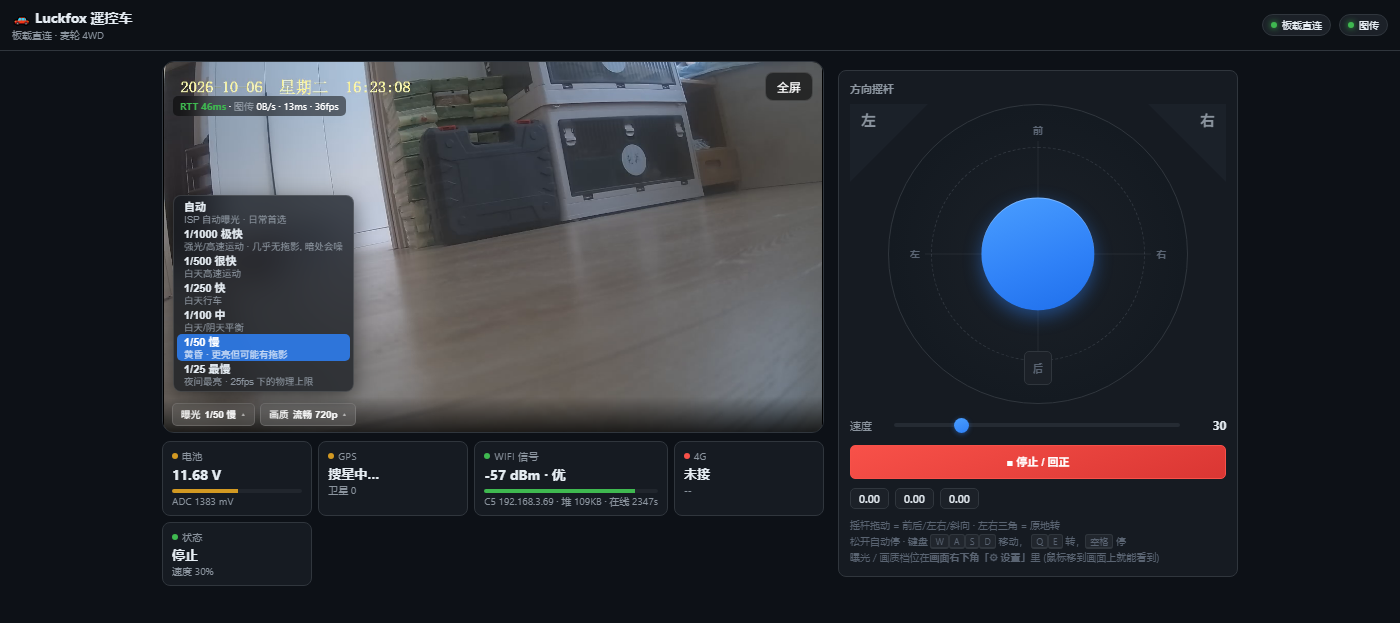
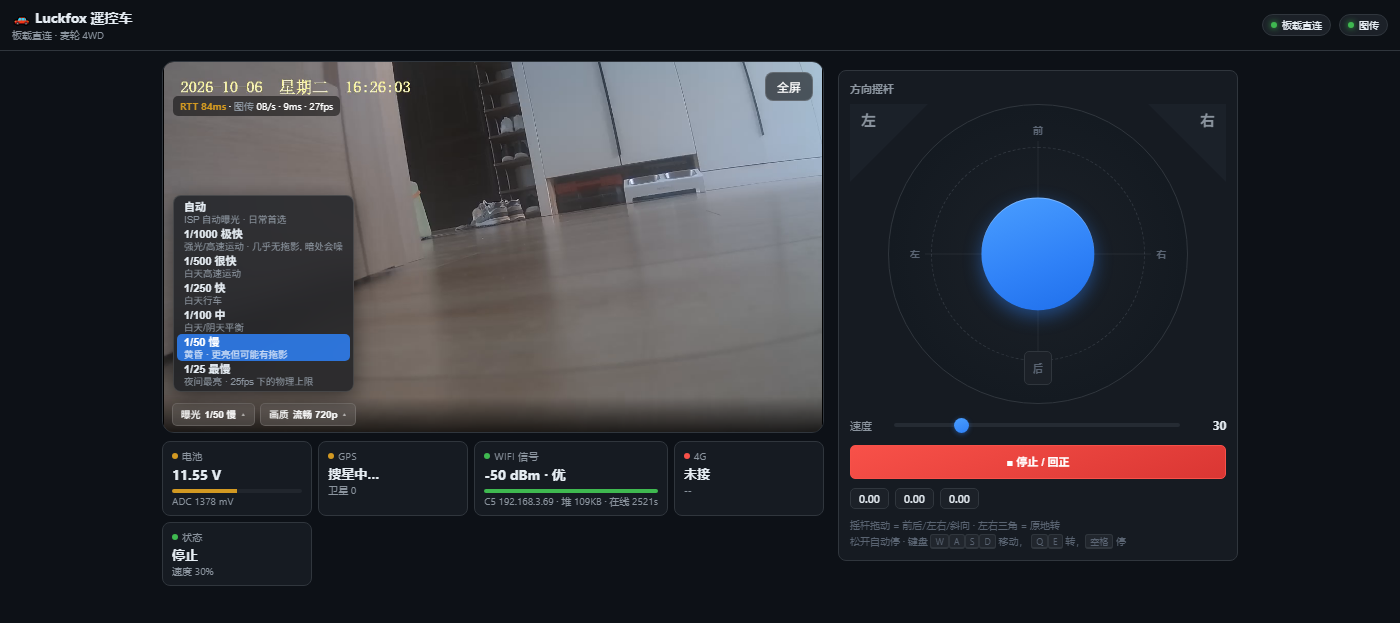
fix: HUD 常驻 + 修掉"按住时出现两个 RTT" + 删除无用的档位提示
问题 (用户报告)
1. 按住方向键时, 左上角 HUD 里会出现**两个 RTT**
2. HUD 应该**常驻**, 不要只在图传连上时才出现
3. 面板底部"曝光 / 画质档位在画面右下角「⚙ 设置」里"这行提示删掉

根因 (问题 1)
* updHud() 用 innerHTML 写**整块** HUD (其中含 RTT)
* hudRtt() 又用 insertBefore **插入**一个独立的 #hudRtt span 写 RTT
* 控制循环每 25ms 调一次 hudRtt (按住时高频触发) -> 两个 RTT 并存
* 修法: HUD 结构只由 updHud() 负责; hudRtt() **只改 textContent/color**,
  绝不增删节点

问题 2 的修法
* updHud(0,0,0,0) 提前到脚本加载时执行一次 (原来只在图传连上后跑)
* stopStats() 不再把 HUD display:none, 图传断了也保留 (RTT 段照常刷新)

顺带修掉的分隔符 bug
* RTT 还没拿到时, 原来会渲染成 "RTT 30ms图传" (缺分隔符);
  现在分隔符用独立的 .sep span, 空 RTT 时由 CSS #vhud.no-rtt 一起隐藏,
  hudRtt() 拿到首个 RTT 后摘掉 no-rtt

验证 (实测)
* 按住 W 2 秒, 每 200ms 采样: RTT 出现次数恒为 1 (修复前为 2) ✓
* 快速连点方向键: #hudRtt 节点数恒为 1 ✓
* 屏蔽图传端口 (8889/whep) 后加载页面: HUD 在各时间点均可见,
  文字 "RTT 38ms · 图传 0B/s · 0ms" -> 常驻 ✓
* 提示文字已无"曝光 / 画质档位" ✓
* 无 JS 异常

文档
* README 说明 HUD 常驻 + RTT 上色规则
* 更新界面截图

diff --git a/board/app/index.html b/board/app/index.html
@@ -93,6 +93,9 @@ main{max-width:1100px;margin:0 auto;padding:10px 12px 24px}
   background:rgba(0,0,0,.5);padding:3px 7px;border-radius:5px;
   backdrop-filter:blur(8px);display:none;font-variant-numeric:tabular-nums;
   z-index:5;white-space:nowrap}
+/* RTT 还没拿到时 (页面刚加载/idle), 隐藏那个空的 #hudRtt 和它后面的分隔符,
+   否则会出现 "RTT…图传" 粘在一起或孤零零的 " · "。 */
+#vhud.no-rtt #hudRtt,#vhud.no-rtt .sep{display:none}
 #vfull{position:absolute;right:10px;top:10px;background:rgba(0,0,0,.55);color:#fff;
   border:1px solid rgba(255,255,255,.15);border-radius:8px;padding:5px 11px;
   font-size:12px;cursor:pointer;backdrop-filter:blur(6px)}
@@ -432,8 +435,7 @@ kbd{background:#21262d;border:1px solid var(--line);border-bottom-width:2px;
       <div class="hint">
         摇杆拖动 = 前后/左右/斜向 · 左右三角 = 原地转<br>
         松开自动停 · 键盘 <kbd>W</kbd><kbd>A</kbd><kbd>S</kbd><kbd>D</kbd> 移动，
-        <kbd>Q</kbd><kbd>E</kbd> 转，<kbd>空格</kbd> 停<br>
-        曝光 / 画质档位在<b>画面右下角「⚙ 设置」</b>里 (鼠标移到画面上就能看到)
+        <kbd>Q</kbd><kbd>E</kbd> 转，<kbd>空格</kbd> 停
       </div>
     </div>
   </div>
@@ -637,6 +639,11 @@ function startStats(p){
   updHud(0, 0, 0, 0);
 }
 
+/* HUD 是**常驻**的: 页面一加载就显示, 不等图传连上。
+ * 原因: RTT 是判断控制链路好坏的唯一指标, 图传断了/还没连上时
+ * 更要能看到 RTT (那正是最需要排查的时候)。图传那部分显示 -- 即可。 */
+updHud(0, 0, 0, 0);
+
 /* 左上角 HUD: 显示**控制 RTT + 图传指标**
  *
  * 为什么把 RTT 放这里: RTT 是"手感"的唯一客观来源 —— 手指动到车响应之间的
@@ -653,34 +660,50 @@ function updHud(rate, jb, fps, lost){
   const rttColor = rtt === null ? '#8b949e'
                  : (rtt < 80 ? '#3fb950' : (rtt < 200 ? '#d29922' : '#f85149'));
   let html = '';
-  if(rtt !== null)
-    html += `<span style="color:${rttColor};font-weight:700">RTT ${rtt}ms</span> · `;
+  /* #hudRtt 这个 span 必须一直存在 (即使是空的): hudRtt() 只改它的
+     textContent/color, 靠它定位。
+     ⚠ 分隔符 " · " 写在 #hudRtt **外面**, 而不是拼在 innerHTML 里 ——
+     否则 RTT 还没拿到时(idle 那一瞬间)会渲染成 "RTT…图传" 粘在一起,
+     或者出现孤零零的 " · 图传"。用 CSS 控制: 空 span 不显示, 分隔符跟着走。 */
+  const rttTxt = rtt !== null ? `RTT ${rtt}ms` : '';
+  el.classList.toggle('no-rtt', rtt === null);
+  html += `<span id="hudRtt" style="color:${rttColor};font-weight:700">${rttTxt}</span>`;
+  html += `<span class="sep"> · </span>`;
   html += `<span style="color:#8b949e">图传</span> ${fmtRate(rate)} · ${Math.round(jb)}ms`;
   if(fps) html += ` · ${Math.round(fps)}fps`;
   if(lost) html += ` · <span style="color:#f85149">丢${lost}</span>`;
   el.innerHTML = html;
   el.style.display = 'block';
 }
-function stopStats(){ clearInterval(statsT); $('vhud').style.display='none'; }
+/* 图传停了也要保留 HUD (只把图传那部分显示成 --), 不能整块隐藏 ——
+   用户要求 RTT 常驻左上角, 因为它是判断控制链路好不好的唯一指标。 */
+function stopStats(){
+  clearInterval(statsT);
+  const el = $('vhud');
+  if(el) el.style.display = 'block';
+}
 
-/* 只刷新 HUD 里的 RTT 部分 (被控制循环每次成功请求后调用)
- * 图传指标由 startStats 每 2 秒更新, 这里只动 RTT, 两者互不覆盖。 */
+/* 只刷新 HUD 里的 RTT 部分 (被控制循环每次成功请求后调用)。
+ *
+ * ⚠ 这里曾经有个 bug: 原来用 `el.insertBefore(span, ...)` 把 RTT span
+ * **插进** HUD, 而 updHud() 又会用 innerHTML 写**整块** HUD (含 RTT)。
+ * 两者都在写 RTT -> 按住方向键时(控制循环每 25ms 跑一次 hudRtt)
+ * 画面上会**出现两个 RTT**。
+ *
+ * 现在: HUD 的结构由 updHud() 单独负责, 这里**只改文本内容和颜色**,
+ * 绝不插入/删除节点。用 `#hudRtt` 这个 span (由 updHud 生成) 定位。 */
 function hudRtt(){
   const el = $('vhud');
   if(!el || el.style.display === 'none') return;
+  const span = el.querySelector('#hudRtt');
+  if(!span) return;                     // updHud 还没建好 -> 等它来写
   const rtt = (typeof ctlRtt === 'number' && ctlRtt >= 0) ? Math.round(ctlRtt) : null;
   if(rtt === null) return;
-  const color = rtt < 80 ? '#3fb950' : (rtt < 200 ? '#d29922' : '#f85149');
-  let span = el.querySelector('#hudRtt');
-  if(!span){
-    span = document.createElement('span');
-    span.id = 'hudRtt';
-    el.insertBefore(span, el.firstChild);
-    el.insertBefore(document.createTextNode(' · '), span.nextSibling);
-  }
-  span.style.color = color;
-  span.style.fontWeight = '700';
+  span.style.color = rtt < 80 ? '#3fb950' : (rtt < 200 ? '#d29922' : '#f85149');
   span.textContent = 'RTT ' + rtt + 'ms';
+  /* 拿到第一个 RTT 后要把 no-rtt 摘掉, 否则 #hudRtt 和分隔符一直被
+     CSS 隐藏着 (updHud 只在图传回调里跑, 可能迟迟不跑)。 */
+  el.classList.remove('no-rtt');
 }
 $('vretry').onclick = playWHEP;
 $('vfull').onclick = () => {

diff --git a/README.md b/README.md
@@ -82,8 +82,10 @@ docs/                   文档与截图
 画面上的控件做成**视频播放器风格**的 OSD（悬停/点画面才浮现），刻意做得小而精致，
 不喧宾夺主：
 
-* **左上角 HUD**：`RTT xxms · 图传 …`，紧贴在摄像头水印下方（两者错开不重叠）。
+* **左上角 HUD（常驻）**：`RTT xxms · 图传 …`，紧贴在摄像头水印下方（两者错开不重叠）。
   RTT 是控制指令的真实往返，一眼看出控制链路通不通。
+  **图传没连上时也一直显示**（图传段显示 `0B/s`）——图传断了的时候恰恰最需要看 RTT。
+  RTT 按延迟上色：<80ms 绿 / <200ms 黄 / 更高 红。
 * **底部控制条**：点「曝光 1/1000」「画质 720p」各自弹出**上弹菜单**（半透明，
   能透出背后的画面），选完即关。
 * **失效保护告警** —— 板子统计"指令到达间隔超过失控超时的比例"（误停率），
